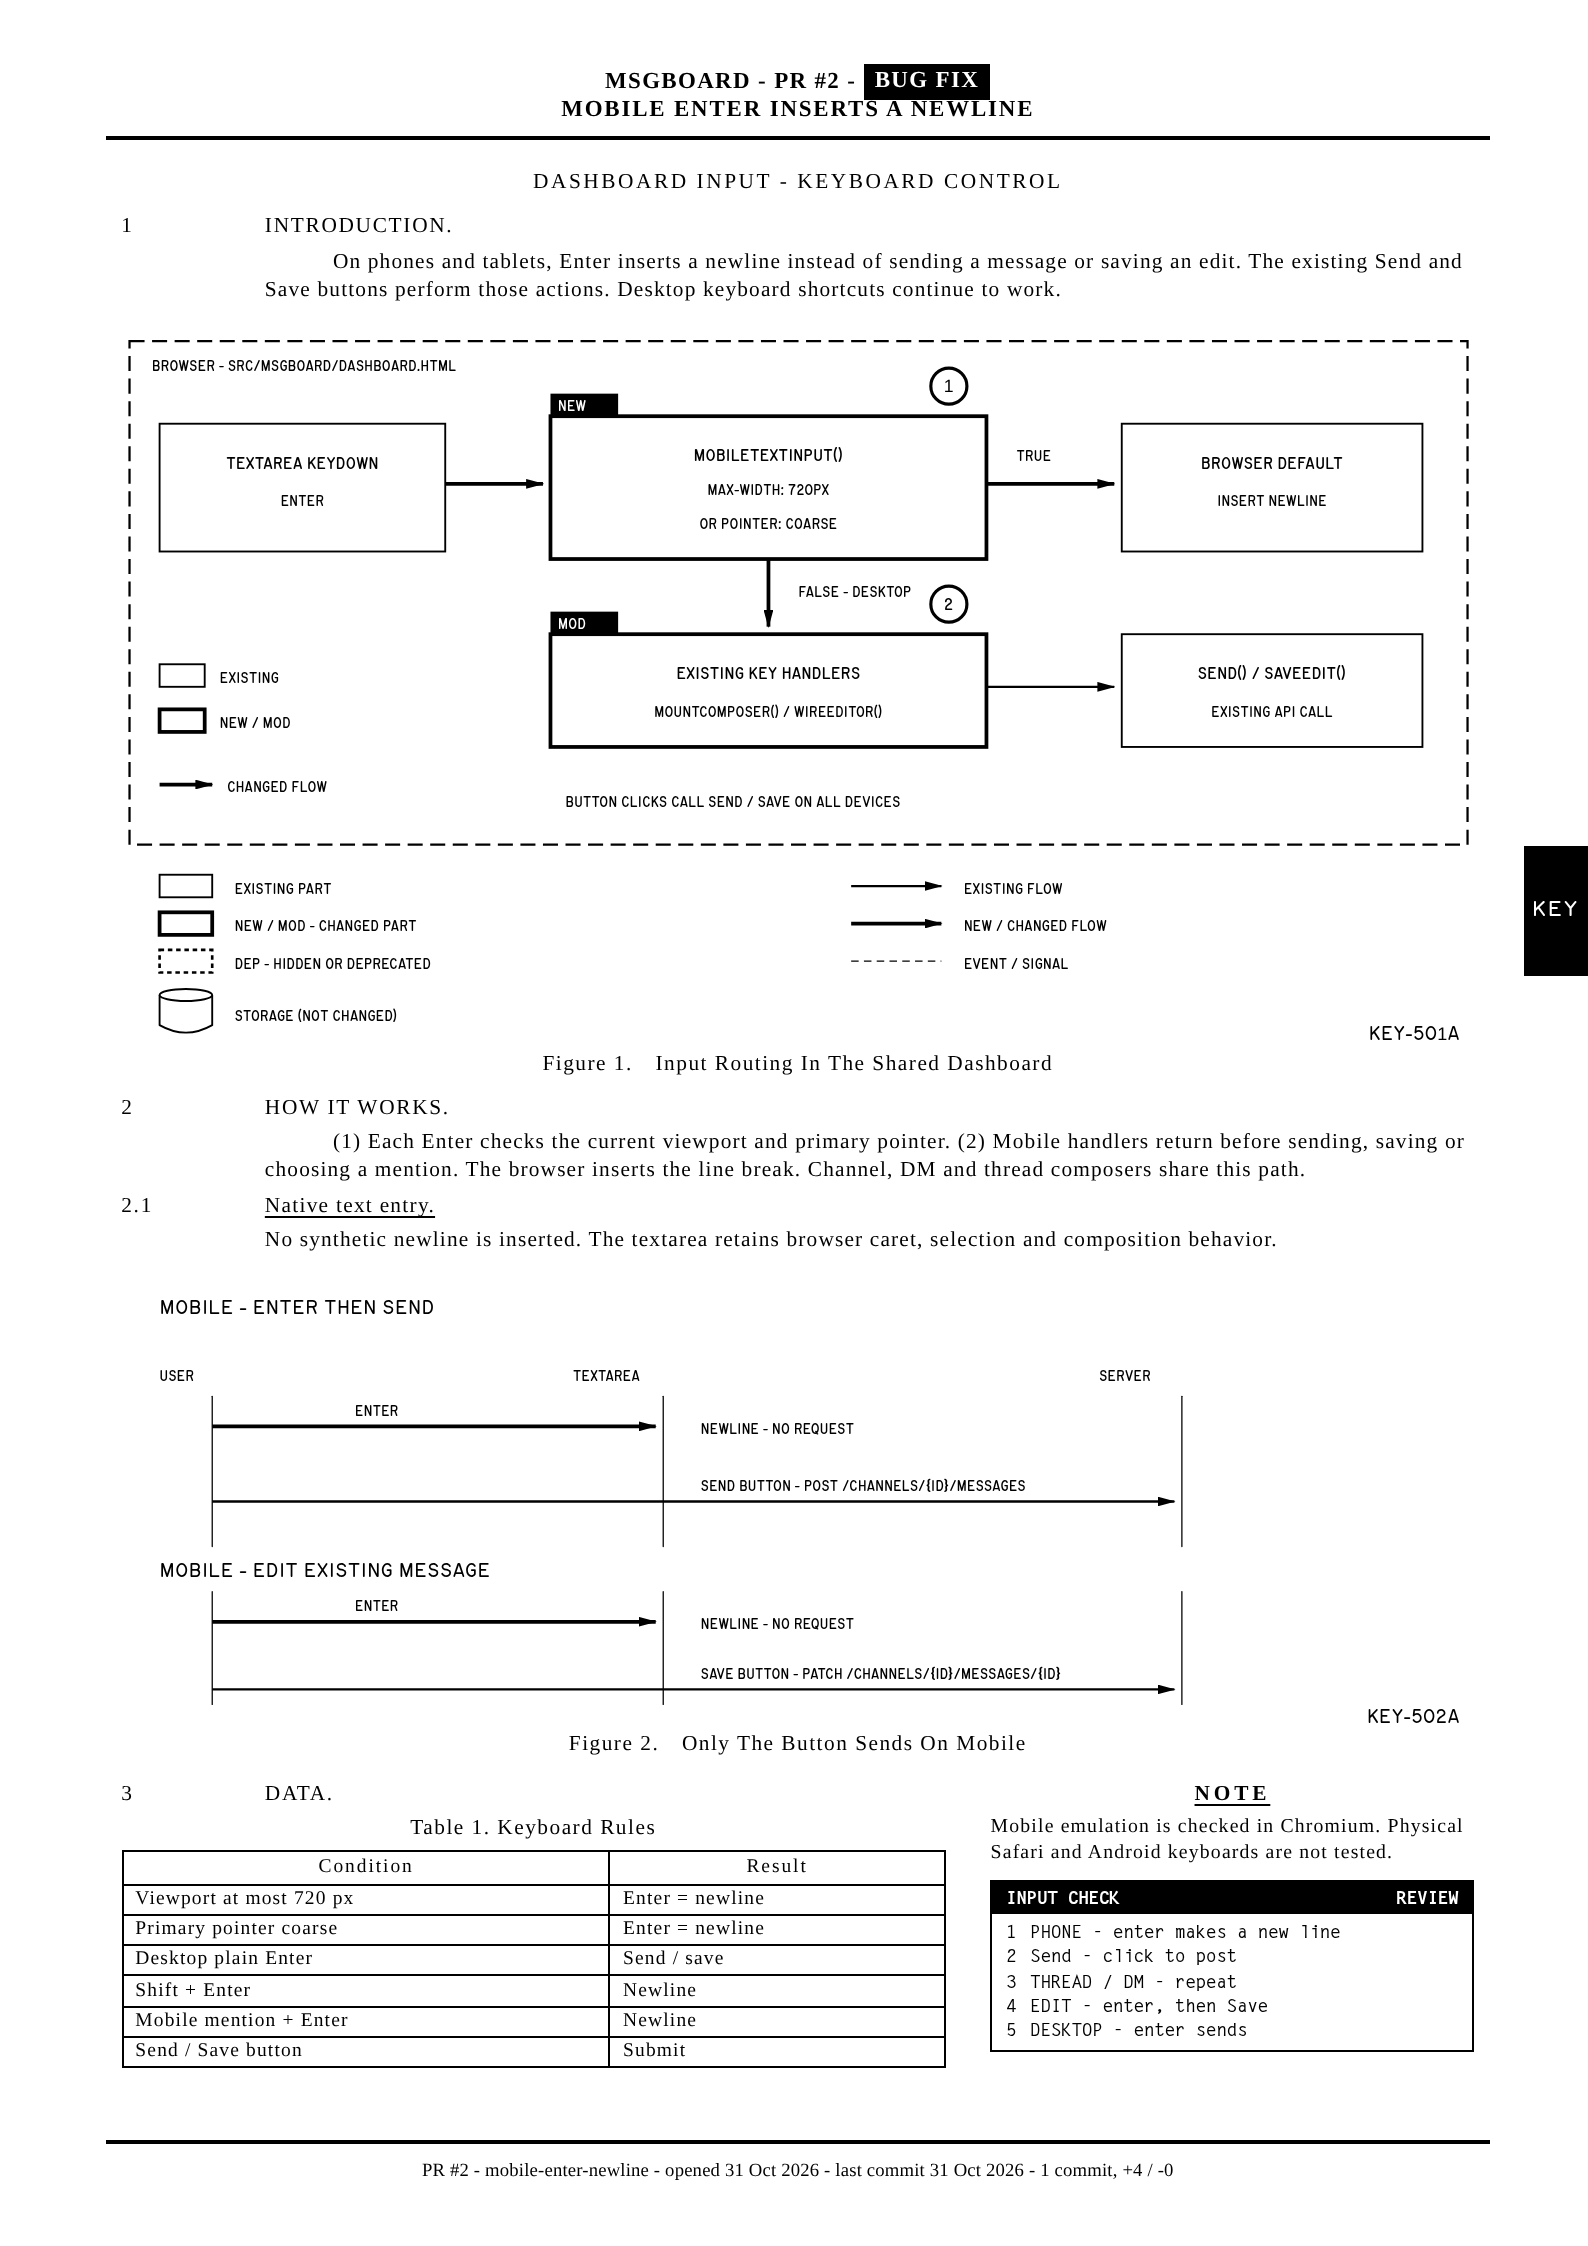
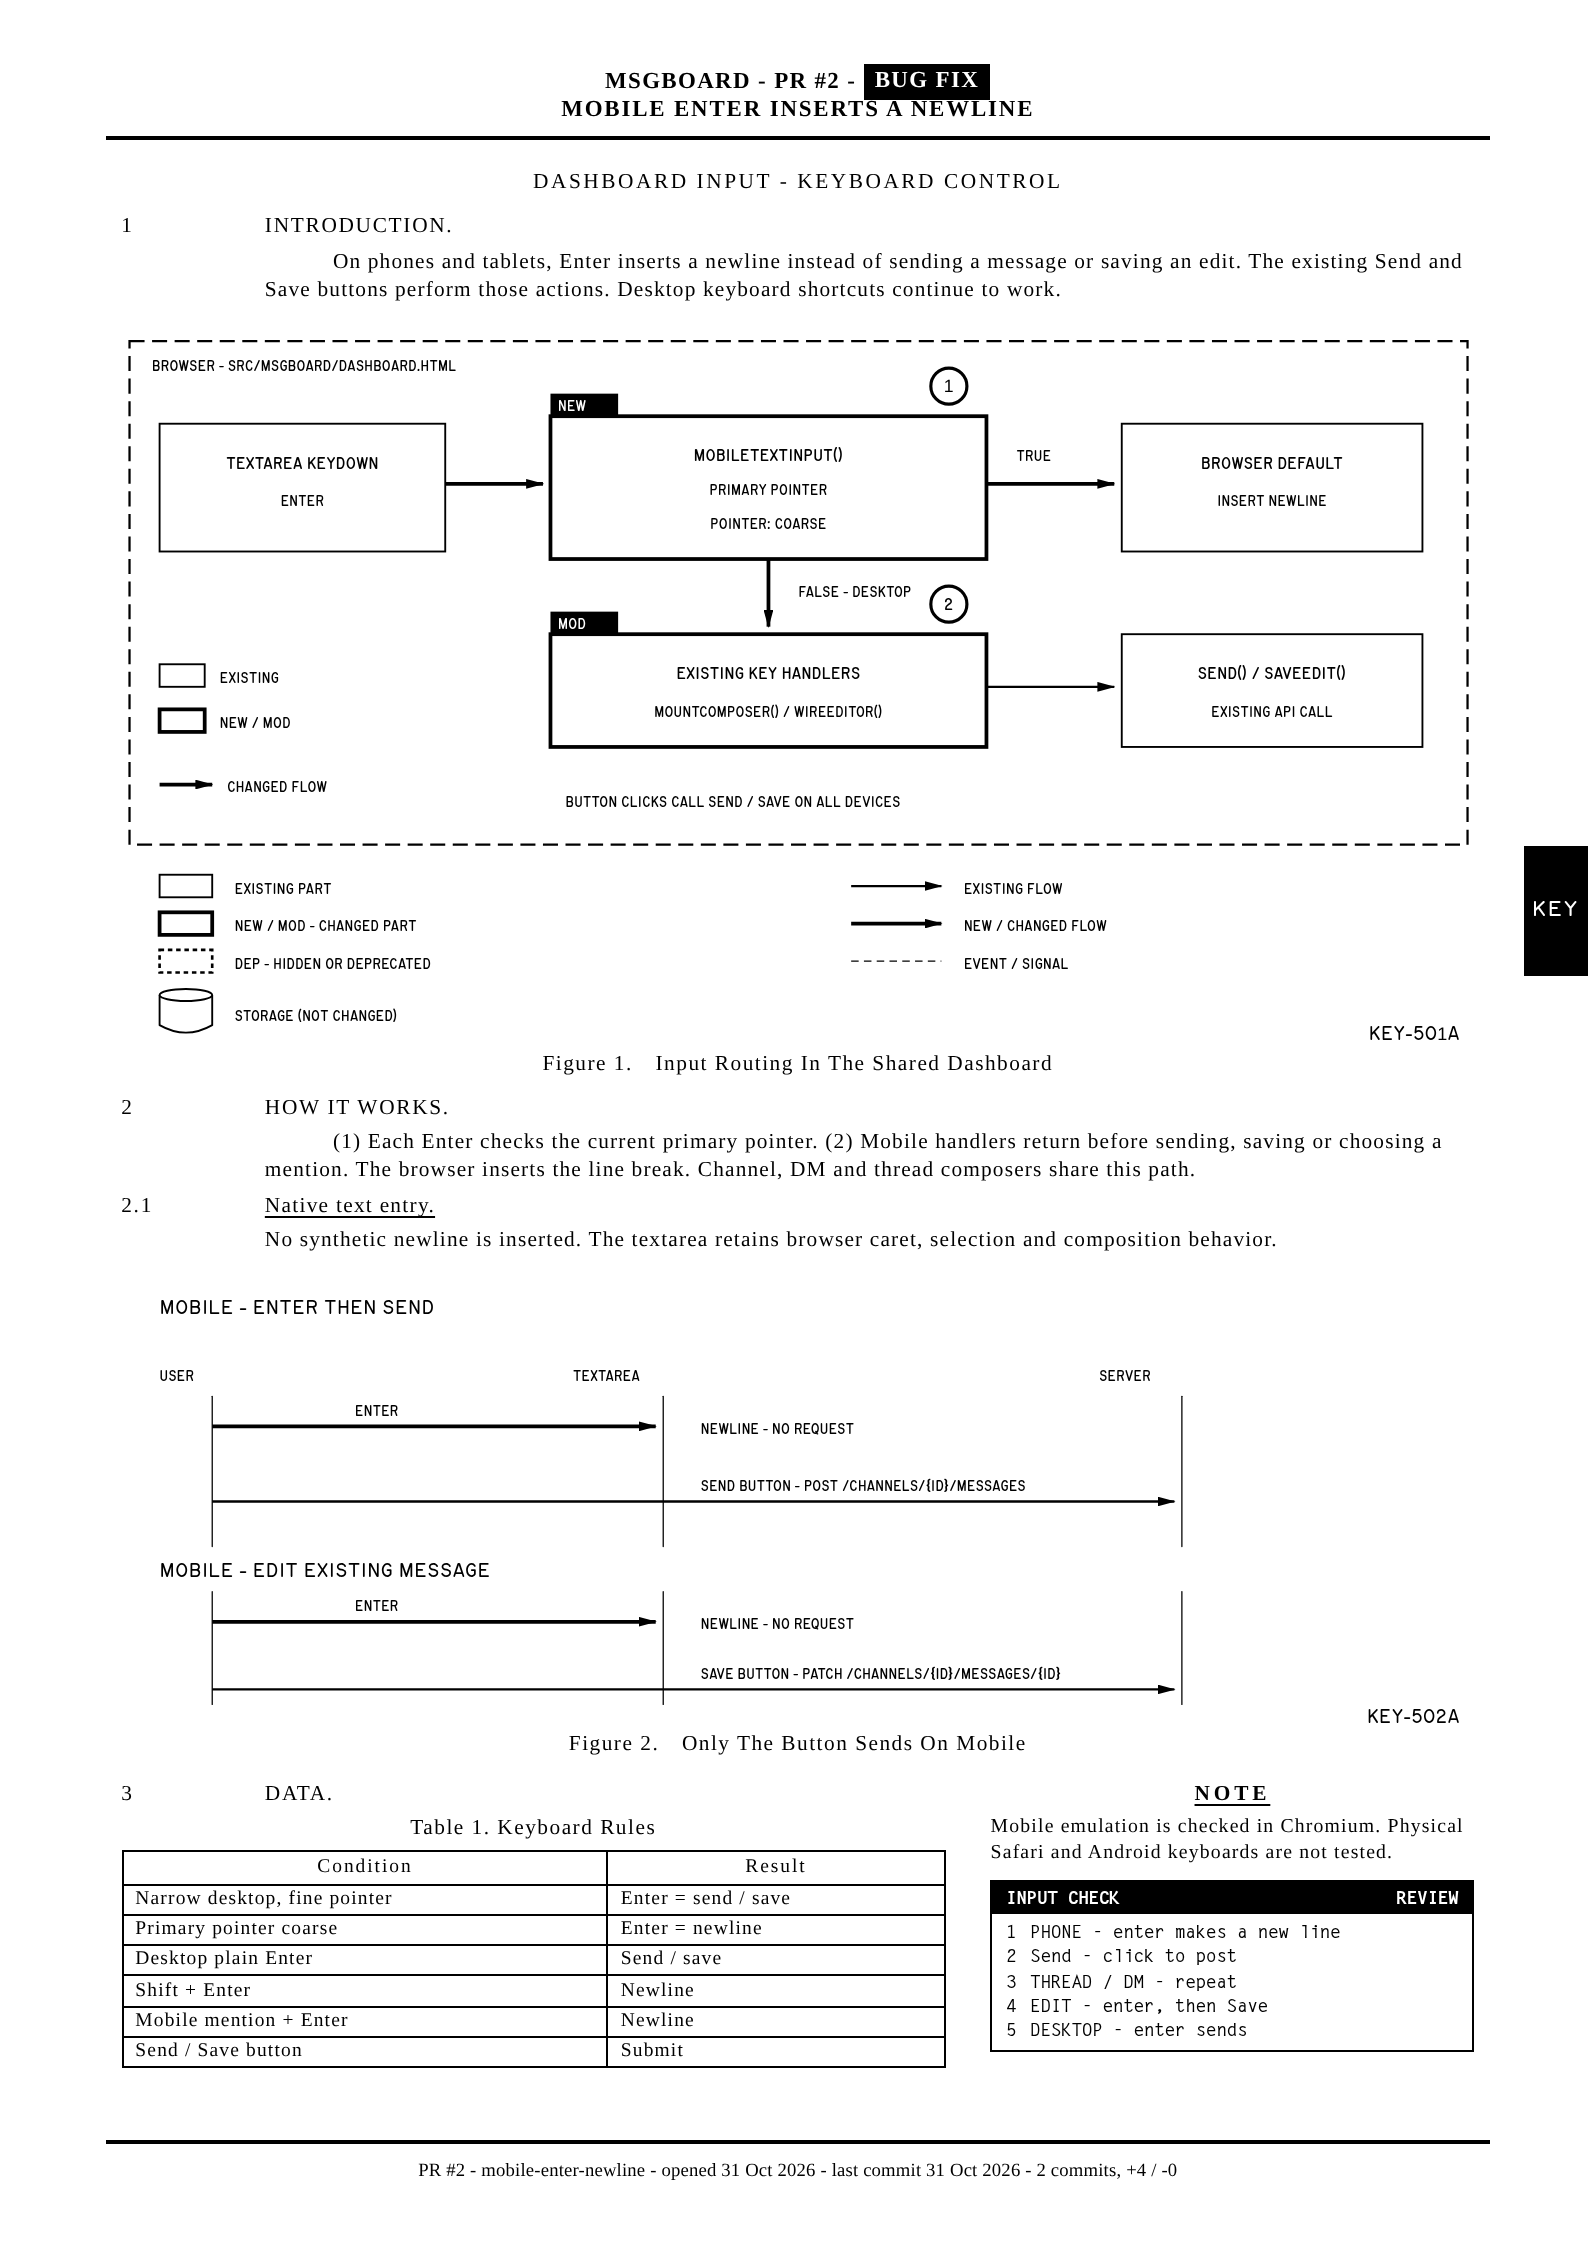
Update PR 2 diagram for touch-only newline behavior

diff --git a/diagram/pr-2.html b/diagram/pr-2.html
@@ -165,8 +165,8 @@ svg .tagtext { fill:#fff;font-size:2.05px; }
 <rect class="changed" x="57" y="12" width="58" height="19"/>
 <rect class="tag" x="57" y="9" width="9" height="3"/><text class="tagtext" x="58" y="11.3">NEW</text>
 <text class="lbl" x="86" y="18" text-anchor="middle">MOBILETEXTINPUT()</text>
-<text class="lbl-s" x="86" y="22.5" text-anchor="middle">MAX-WIDTH: 720PX</text>
-<text class="lbl-s" x="86" y="27" text-anchor="middle">OR POINTER: COARSE</text>
+<text class="lbl-s" x="86" y="22.5" text-anchor="middle">PRIMARY POINTER</text>
+<text class="lbl-s" x="86" y="27" text-anchor="middle">POINTER: COARSE</text>
 <circle class="of" cx="110" cy="8" r="2.4"/><text class="lbl" x="110" y="8.8" text-anchor="middle">1</text>
 <line class="wa newflow" x1="115" y1="21" x2="132" y2="21"/>
 <text class="lbl-s" x="119" y="18">TRUE</text>
@@ -198,7 +198,7 @@ svg .tagtext { fill:#fff;font-size:2.05px; }
 <text class="code" x="178" y="95" text-anchor="end">KEY-501A</text>
 </svg><figcaption><span class="n">Figure 1.</span>Input Routing In The Shared Dashboard</figcaption></figure>
 <section class="para" style="margin-top:2mm"><div class="num">2</div><div><h2>HOW IT WORKS.</h2>
-<p>(1) Each Enter checks the current viewport and primary pointer. (2) Mobile handlers return before sending, saving or choosing a mention. The browser inserts the line break. Channel, DM and thread composers share this path.</p></div></section>
+<p>(1) Each Enter checks the current primary pointer. (2) Mobile handlers return before sending, saving or choosing a mention. The browser inserts the line break. Channel, DM and thread composers share this path.</p></div></section>
 <section class="para"><div class="num">2.1</div><div><h3>Native text entry.</h3>
 <p class="flush">No synthetic newline is inserted. The textarea retains browser caret, selection and composition behavior.</p></div></section>
 <figure><svg viewBox="0 0 180 60" role="img" aria-label="Mobile message entry sequence">
@@ -218,7 +218,7 @@ svg .tagtext { fill:#fff;font-size:2.05px; }
 <div class="lower"><div>
 <section class="para"><div class="num">3</div><div><h2>DATA.</h2></div></section>
 <div class="tcap">Table 1. Keyboard Rules</div><table><thead><tr><th>Condition</th><th>Result</th></tr></thead><tbody>
-<tr><td>Viewport at most 720 px</td><td>Enter = newline</td></tr>
+<tr><td>Narrow desktop, fine pointer</td><td>Enter = send / save</td></tr>
 <tr><td>Primary pointer coarse</td><td>Enter = newline</td></tr>
 <tr><td>Desktop plain Enter</td><td>Send / save</td></tr>
 <tr><td>Shift + Enter</td><td>Newline</td></tr>
@@ -233,7 +233,7 @@ svg .tagtext { fill:#fff;font-size:2.05px; }
 <li><span>4</span><span>EDIT - enter, then Save</span></li>
 <li><span>5</span><span>DESKTOP - enter sends</span></li>
 </ol></div></div></div>
-<footer class="foot"><div class="rule"></div><div class="line">PR #2 - mobile-enter-newline - opened 31 Oct 2026 - last commit 31 Oct 2026 - 1 commit, +4 / -0</div></footer>
+<footer class="foot"><div class="rule"></div><div class="line">PR #2 - mobile-enter-newline - opened 31 Oct 2026 - last commit 31 Oct 2026 - 2 commits, +4 / -0</div></footer>
 </div><script>
   // Fit check: room left between the last content block and the footer.
   // .page hides overflow, so without this an overfull page fails silently.
